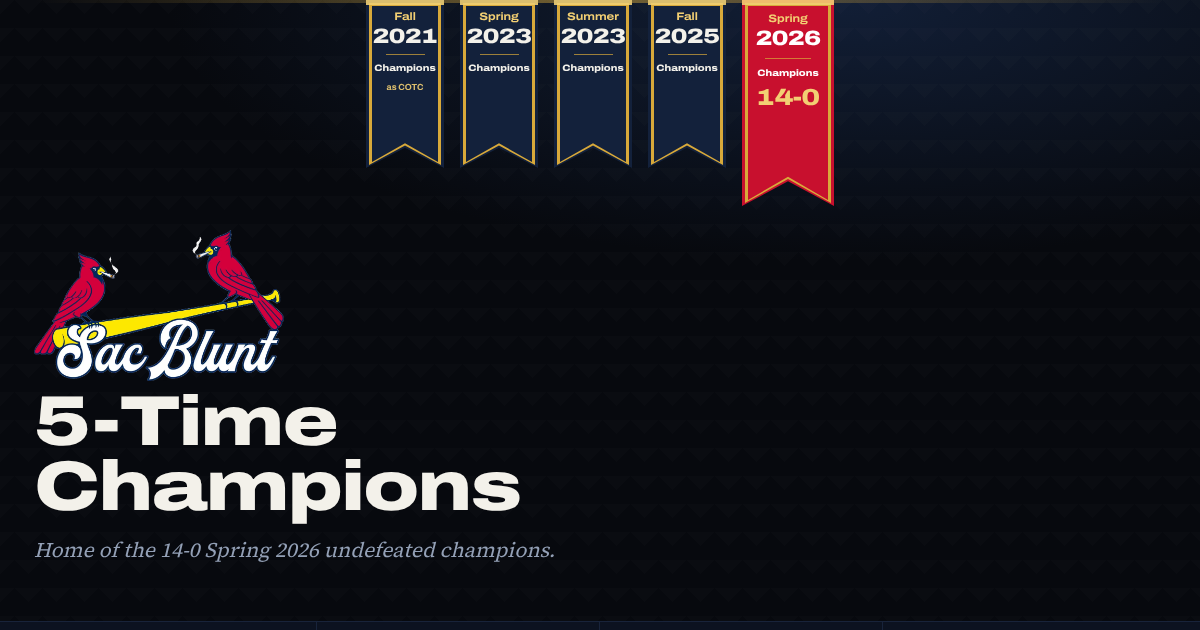
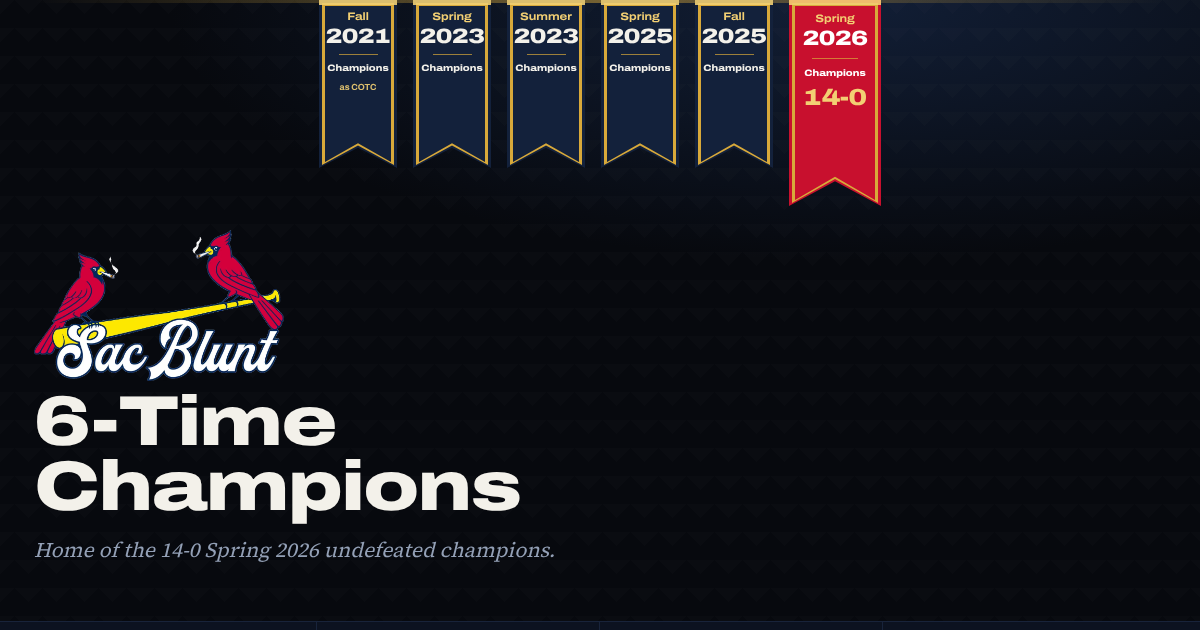
Count Spring 2025 as the 6th championship (confirmed by team leadership Oct 7, 2026)
Claude-Session: https://claude.ai/code/session_0165SC9SYhqqxZqUEcaJRZHw

Changed region(s): [[0.2467, 0.0, 0.74, 0.3317], [0.1233, 0.6333, 0.2467, 0.6937], [0.0308, 0.6333, 0.0925, 0.6937]]

diff --git a/tests/data.test.ts b/tests/data.test.ts
@@ -5,10 +5,10 @@ import { battingLine, finalize } from "@/lib/stats";
 import type { Game, PlateAppearance } from "@/lib/types";
 
 describe("franchise integrity (handoff acceptance criteria)", () => {
-  it("counts five championships, including COTC Fall 2021", () => {
+  it("counts six championships, including COTC Fall 2021 and leadership-confirmed Spring 2025", () => {
     const titles = getChampionships().map((c) => c.season_id);
-    expect(titles).toEqual(["2021-fall", "2023-spring", "2023-summer", "2025-fall", "2026-spring"]);
-    expect(getFranchise().championship_count).toBe(5);
+    expect(titles).toEqual(["2021-fall", "2023-spring", "2023-summer", "2025-spring", "2025-fall", "2026-spring"]);
+    expect(getFranchise().championship_count).toBe(6);
     expect(getSeason("2021-fall")!.team_name_at_time).toBe("COTC");
   });
   it("rolls COTC seasons into franchise totals", () => {
@@ -17,7 +17,7 @@ describe("franchise integrity (handoff acceptance criteria)", () => {
     const sb = franchiseTotals("sacrifice-blunt");
     expect(all.regular.w).toBe(cotc.regular.w + sb.regular.w);
     expect(all.regular.l).toBe(cotc.regular.l + sb.regular.l);
-    expect(all.championships).toBe(5);
+    expect(all.championships).toBe(6);
     expect(cotc.championships).toBe(1);
     expect(all.seasons).toBe(15);
   });
@@ -46,10 +46,13 @@ describe("franchise integrity (handoff acceptance criteria)", () => {
     expect(getSeason("2021-summer")!.runs_for).toBeNull(); // two unreported games
     for (const g of getGames()) if (!g.result) expect(g.team_score).toBeNull();
   });
-  it("keeps Spring 2025 out of the title count while under review", () => {
+  it("counts Spring 2025 after team leadership confirmed it, with its title game linked", () => {
     const s = getSeason("2025-spring")!;
-    expect(s.champion).toBe(false);
-    expect(s.title_under_review).toBe(true);
+    expect(s.champion).toBe(true);
+    expect(s.title_under_review).toBe(false);
+    const c = getChampionships().find((x) => x.season_id === "2025-spring")!;
+    expect(c.title_game_id).toBe("2025-spring-cheers-1");
+    expect(c.verification).toEqual(["teamsideline_playoff_results", "team_leadership"]);
   });
   it("matches the Fall 2026 standings in the handoff", () => {
     expect(getStandings("2026-fall").map((r) => `${r.team} ${r.w}-${r.l}`)).toEqual([

diff --git a/src/components/Banner.tsx b/src/components/Banner.tsx
@@ -13,7 +13,7 @@ export function Banner({
   const special = title.undefeated;
   const isCotc = season.team_name_at_time !== "Sacrifice Blunt";
   const dims = size === "rafter"
-    ? special ? "w-[64px] h-[150px] sm:w-[92px] sm:h-[206px]" : "w-[54px] h-[122px] sm:w-[78px] sm:h-[168px]"
+    ? special ? "w-[56px] h-[138px] sm:w-[92px] sm:h-[206px]" : "w-[46px] h-[112px] sm:w-[78px] sm:h-[168px]"
     : special ? "w-[150px] h-[300px] sm:w-[176px] sm:h-[352px]" : "w-[124px] h-[250px] sm:w-[148px] sm:h-[296px]";
   const cloth = special ? "bg-cardinal" : "bg-navy";
   const clip = "[clip-path:polygon(0_0,100%_0,100%_100%,50%_88%,0_100%)]";
@@ -30,14 +30,14 @@ export function Banner({
       {/* rod */}
       <div className="absolute inset-x-0 top-0 h-[5px] bg-gold-hi/90" />
       <div className={`relative flex h-full flex-col items-center pt-[14%] text-center ${special ? "text-white" : "text-chalk"}`}>
-        <span className={`wide font-bold leading-none text-gold-hi ${big ? "text-[0.95rem]" : "text-[0.5rem] sm:text-[0.68rem]"}`}>
+        <span className={`wide font-bold leading-none text-gold-hi ${big ? "text-[0.95rem]" : "text-[0.46rem] sm:text-[0.68rem]"}`}>
           {season.session}
         </span>
-        <span className={`display num leading-none ${big ? "mt-2 text-[2.1rem] sm:text-[2.45rem]" : "mt-1 text-[0.92rem] sm:text-[1.3rem]"}`}>
+        <span className={`display num leading-none ${big ? "mt-2 text-[2.1rem] sm:text-[2.45rem]" : "mt-1 text-[0.8rem] sm:text-[1.3rem]"}`}>
           {season.year}
         </span>
         <span className={`mt-[10%] h-px w-1/2 bg-gold/70`} />
-        <span className={`wide mt-[10%] font-extrabold leading-tight ${big ? "text-[0.92rem]" : "text-[0.42rem] sm:text-[0.58rem]"}`}>
+        <span className={`wide mt-[10%] font-extrabold leading-tight ${big ? "text-[0.92rem]" : "hidden text-[0.58rem] sm:block"}`}>
           Champions
         </span>
         {special && (

diff --git a/src/app/records/page.tsx b/src/app/records/page.tsx
@@ -28,7 +28,7 @@ export default function RecordsPage() {
     { label: "Championships", value: String(t.championships), detail: getChampionships().map((c) => { const x = getSeason(c.season_id)!; return `${x.session} ${x.year}${x.team_name_at_time === "COTC" ? " (as COTC)" : ""}`; }).join(", "), href: "/championships" },
     { label: "Recorded all-time record", value: rec(t.overall.w, t.overall.l), detail: `${rec(t.regular.w, t.regular.l)} regular season · ${rec(t.postseason.w, t.postseason.l)} postseason`, href: "/seasons" },
     ...seasons.filter((x) => x.undefeated).slice(0, 1).map((u) => ({ label: "Undefeated seasons", value: String(t.undefeated), detail: seasons.filter((x) => x.undefeated).map((x) => `${x.session} ${x.year} (${rec(x.overall_wins, x.overall_losses)} overall)`).join(", "), href: `/seasons/${u.slug}` })),
-    { label: "Championship-round record", value: rec(titleRound.w, titleRound.l), detail: "Title games with a recorded result (includes Spring 2025, under review)", href: "/championships" },
+    { label: "Championship-round record", value: rec(titleRound.w, titleRound.l), detail: "Every championship-round game with a recorded result", href: "/championships" },
     { label: "Postseason win percentage", value: fmtPct(t.postseason.w / (t.postseason.w + t.postseason.l)), detail: `${t.playoffAppearances} seasons with a recorded playoff result` },
   ];
 

diff --git a/src/app/admin/page.tsx b/src/app/admin/page.tsx
@@ -39,7 +39,7 @@ export default function AdminHome() {
           ))}
         </ul>
         <p className="mt-3 text-[0.85rem] text-mute">
-          To count Spring 2025 as a title: set <code className="text-chalk">champion: true</code> for <code className="text-chalk">2025-spring</code> in <code className="text-chalk">archive/data/seed-data.json</code>, add it to <code className="text-chalk">championships</code>, raise <code className="text-chalk">championship_count_currently_supported</code> to 6, and remove <code className="text-chalk">title_under_review</code> from <code className="text-chalk">data/manual/season-annotations.json</code>. The build checks all of these agree.
+          To record a title confirmed by team leadership, add <code className="text-chalk">champion_confirmed_by_leadership: true</code>, a <code className="text-chalk">decision_date</code> and a <code className="text-chalk">championship_note</code> to that season in <code className="text-chalk">data/manual/season-annotations.json</code>, then rebuild. The handoff seed stays untouched and the build checks the title count, banners and championship list agree.
         </p>
       </section>
 

diff --git a/src/app/championships/page.tsx b/src/app/championships/page.tsx
@@ -25,7 +25,7 @@ export default function Vault() {
         <div className="kicker text-gold">The Championship Vault</div>
         <h1 className="display mt-3 text-[2.6rem] sm:text-[4.6rem]">{titles.length} titles</h1>
         <p className="serif mx-auto mt-3 max-w-xl text-[1.1rem] italic text-mute">
-          One under the original COTC name, four as Sacrifice Blunt. All count for the same franchise.
+          {(() => { const n = titles.filter((t) => t.team_name_at_time === "COTC").length; const w = ["zero","one","two","three","four","five","six","seven","eight","nine","ten"]; const cap = (x: string) => x[0].toUpperCase() + x.slice(1); return `${cap(w[n] ?? String(n))} under the original COTC name, ${w[titles.length - n] ?? titles.length - n} as Sacrifice Blunt. All count for the same franchise.`; })()}
         </p>
         <div className="mt-10 sm:mt-14"><Rafters titles={titles} seasons={seasons} size="vault" /></div>
       </Container>

diff --git a/src/app/page.tsx b/src/app/page.tsx
@@ -186,7 +186,7 @@ export default function Home() {
             sub={`${fmtPct(totals.postseason.w / (totals.postseason.w + totals.postseason.l))} in recorded playoff games`}
             href="/records"
           />
-          <StatTile label="Championship-round games" value={rec(titleRound.w, titleRound.l)} sub="Includes Spring 2025's title-game win, which is under review" href="/championships" />
+          <StatTile label="Championship-round games" value={rec(titleRound.w, titleRound.l)} sub="Recorded title-game results" href="/championships" />
           <StatTile label="Regular season, all-time" value={rec(totals.regular.w, totals.regular.l)} sub={`${totals.seasons} recorded seasons, COTC included`} href="/seasons" />
         </section>
 

diff --git a/src/app/layout.tsx b/src/app/layout.tsx
@@ -9,9 +9,11 @@ import { fmtDate } from "@/lib/format";
 
 const site = process.env.NEXT_PUBLIC_SITE_URL ?? "http://localhost:3000";
 
+const titleCount = getFranchise().championship_count;
+
 export const metadata: Metadata = {
   metadataBase: new URL(site),
-  title: { default: "Sacrifice Blunt — 5-Time Champions", template: "%s · Sacrifice Blunt" },
+  title: { default: `Sacrifice Blunt — ${titleCount}-Time Champions`, template: "%s · Sacrifice Blunt" },
   description:
     "Official history, stats archive and record book of Sacrifice Blunt (originally COTC), men's slow-pitch softball at Bridgeton Municipal Athletic Complex. Home of the 14-0 Spring 2026 undefeated champions.",
   applicationName: "Sacrifice Blunt",

diff --git a/README.md b/README.md
@@ -2,7 +2,7 @@
 
 The permanent home of **Sacrifice Blunt** (originally **COTC**): schedule and results, every recorded season, the Championship Vault, the record book, head-to-head opponent history, player pages, and the admin tools for scorekeeping.
 
-COTC and Sacrifice Blunt are **one franchise**. COTC seasons, games and the Fall 2021 title roll into every franchise total.
+COTC and Sacrifice Blunt are **one franchise**. COTC seasons, games and the Fall 2021 title roll into every franchise total. The franchise has **6 championships** on record: Fall 2021 (as COTC), Spring 2023, Summer 2023, Spring 2025, Fall 2025 and Spring 2026 (undefeated, 14-0).
 
 ## Quick start
 
@@ -54,7 +54,7 @@ Pipeline:
 
 | Season | Finding | How it's handled |
 |---|---|---|
-| Spring 2025 | Won the Playoff Round 3 – Championship Round game (G7) 13-12 over Cheers. Three division teams weren't in the bracket. | **Not counted.** Shown as "Won title game · under review". Count stays at 5 until leadership decides. |
+| Spring 2025 | Won the Playoff Round 3 – Championship Round game (G7) 13-12 over Cheers after beating Chester City and Outlaws. | **Counted.** Team leadership confirmed it as a championship on Oct 7, 2026 — the 6th title. Recorded in `data/manual/season-annotations.json`; the handoff seed is unchanged. |
 | Summer 2023 | Title-game result (14-4 over Six Mile Bridge) is in the PDF. | Title now has TeamSideline evidence in addition to leadership confirmation. |
 | Spring 2026 | Playoff wins 11-4 and 10-2 are in the PDF, so 14-0 is corroborated. | Season confidence kept as *verified + confirmed* per the handoff; note added. |
 | Fall 2022, Spring 2024, Summer 2025 | Lost in the championship-round game. | Shown as Runner-up. |
@@ -62,7 +62,7 @@ Pipeline:
 | Summer/Fall 2026 | Two July 1 wins vs Minimal Effort have no score (result only). | Count as wins; excluded from score-based records. |
 | Fall 2026 | Playoffs Oct 7, 2026: Round 1 at Cheers, 6:30 PM, F11. | Shown as the next game. No results invented. |
 
-**To count Spring 2025 as a sixth title:** in `archive/data/seed-data.json` set `champion: true` and `playoff_finish: "Champion"` on `2025-spring`, add it to `championships`, set `championship_count_currently_supported` to 6, then remove `title_under_review` from `data/manual/season-annotations.json`. The hero, banners, vault and records update from the data.
+**Recording a title confirmed after the handoff:** add `champion_confirmed_by_leadership: true`, a `decision_date` and a `championship_note` to that season in `data/manual/season-annotations.json`. The build adds it to the championship list and checks that the count, banners and champion seasons all agree. The original seed in `archive/` stays untouched.
 
 ## Adding things
 
